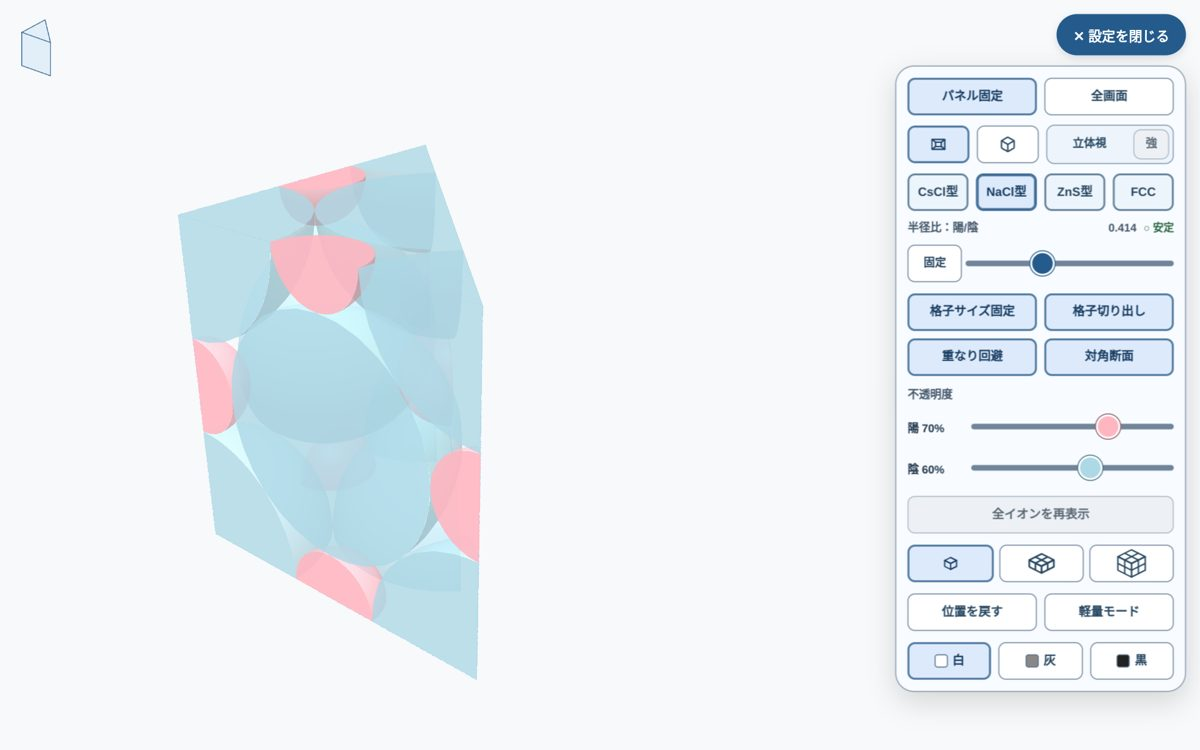
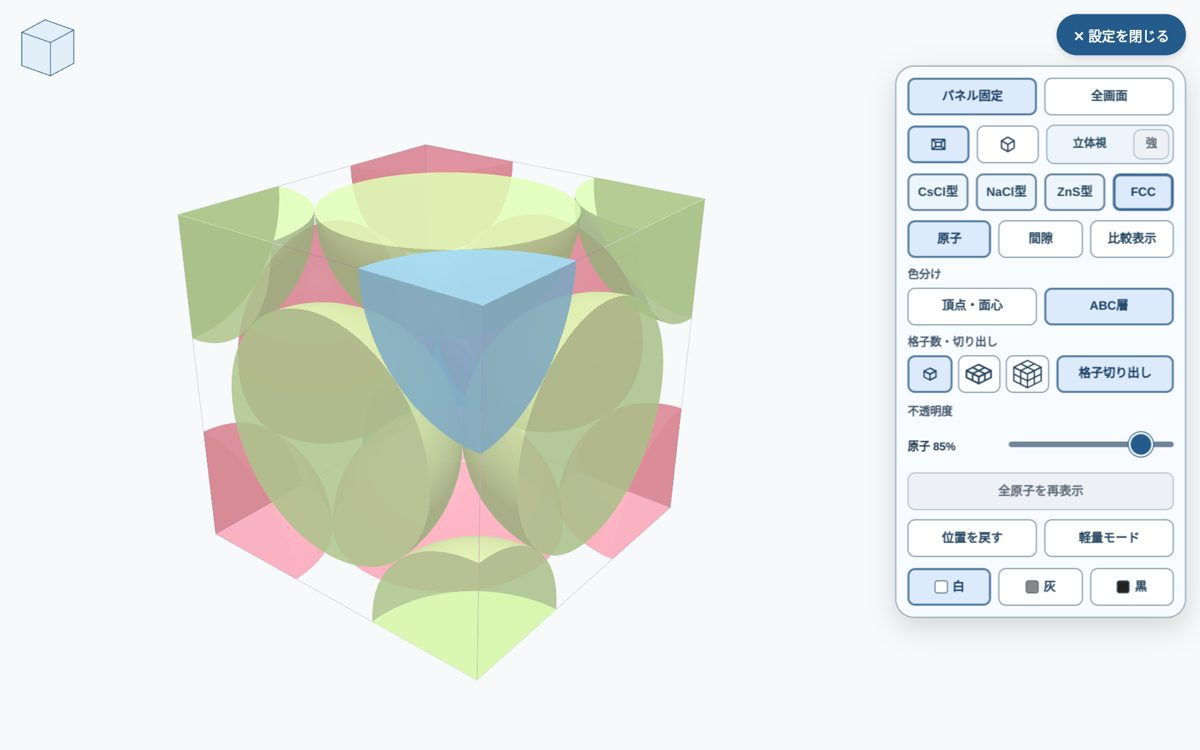
GenkaiHankeiHi shots: slot5 = FCC ABC layers, slot6 = diagonal section front view

Changed region(s): [[0.1233, 0.184, 0.5858, 0.92], [0.74, 0.2147, 1.0, 0.9507], [0.0308, 0.0307, 0.0617, 0.092]]

diff --git a/index.html b/index.html
@@ -157,8 +157,8 @@
           ['assets/genkai-2.jpg', '限界半径比いじくるくんのCsCl型表示'],
           ['assets/genkai-3.jpg', 'ZnS型の結晶格子'],
           ['assets/genkai-4.jpg', '面心立方格子（FCC）モードの表示'],
-          ['assets/genkai-5.jpg', '対角断面の表示'],
-          ['assets/genkai-6.jpg', '半径比が小さすぎて不安定な状態'],
+          ['assets/genkai-5.jpg', 'FCCモードでABC層ごとに色分けした表示'],
+          ['assets/genkai-6.jpg', '対角断面を正面から見た表示'],
         ],
       },
       stereo: {
